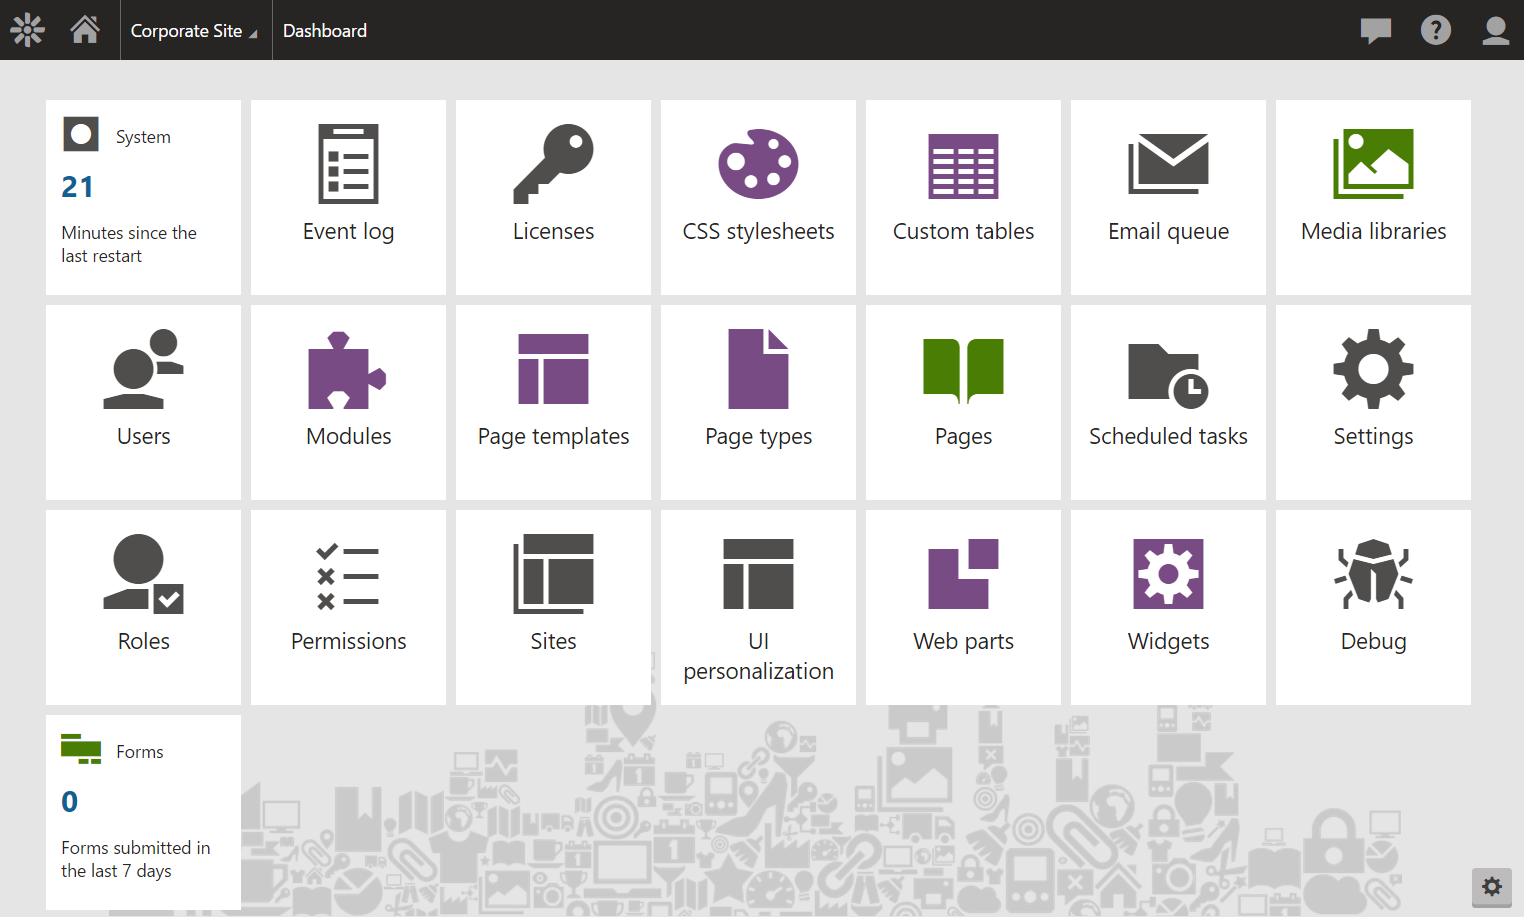
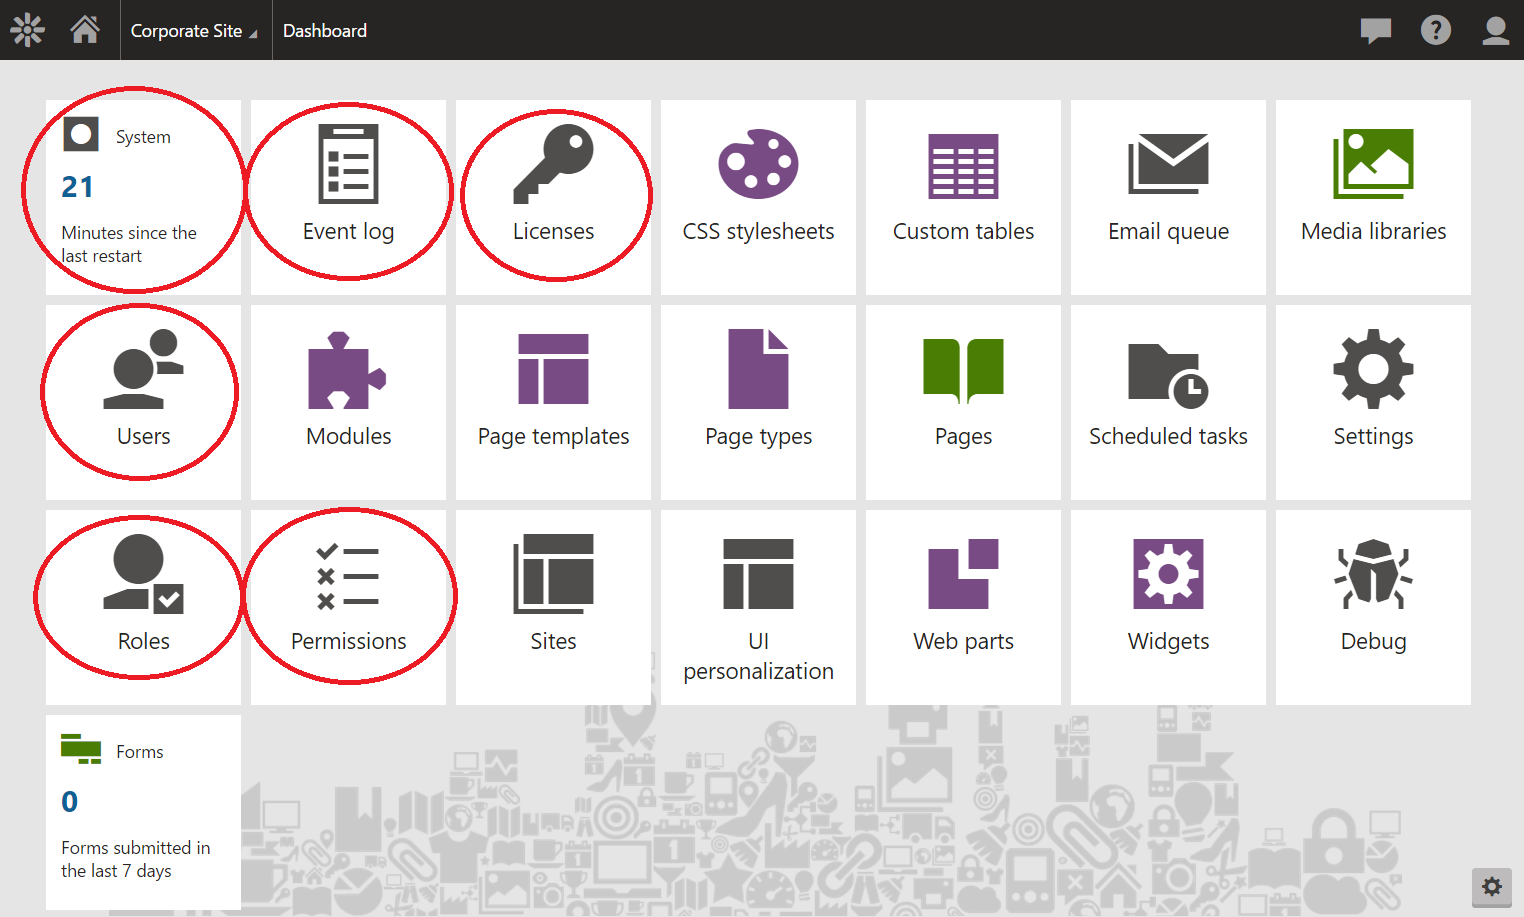
Images edited, analysis updated

diff --git a/chapters/analysis.tex b/chapters/analysis.tex
@@ -33,19 +33,21 @@ Example code sample
 This text references image \ref{ExampleImage1}
 
 \section{Kentico CMS} \label{analysisKenticoCMS}
-Kentico CMS is a content management system (CMS) which allows clients to create and manage their web-sites using a single user interface (UI) which is made of tiles, a layout and an edit button. Each tile has its own functionality. The client can rearrange them either by simply dragging them or by pushing the edit button. Pushing the button leads to the tiles having an \textit{X} in the upper-right corner for removing the tile. If place on the dashboard is available, a free rectangle with a plus enables the client to add a new tile from the menu. The functionality in the menu is divided into six categories: Content Management, On-line Marketing, E-Commerce, Social \& Community, Development and Configuration. The Content Management sees to the contents of the client's site such as pages, tables, polls, etc. On-line Marketing enables the client to handle marketing elements. Visitor's behaviour and reactions are taken into consideration. Email marketing, MVT Tests, Personas and other. The category E-commerce offers actions which lead to motivating the visitor's behaviour to resemble the client's wished one, managing products and to track sales. These action are for example Buy X get Y discounts, Products and Store reports. The next category is called Social \& Community and makes it possible for the client to maintain the community around the site and its communication. Some of these tiles are for instance Avatars, Chat, Events. The Development section's task is to empower the client to administer sources of functionality and programmable elements. This section consists of tiles such as CSS stylesheets, Email templates, Web Part Containers, etc. The last and in this thesis most important category is the Configuration category.  
+Kentico CMS is a content management system (CMS) which allows clients to create and manage their web-sites using a single user interface (UI) which is made of tiles, a layout and an edit button. Each tile has its own functionality. The client can rearrange them either by simply dragging them or by pressing the edit button. pressing the button leads to the tiles having an \textit{X} in the upper-right corner for removing the tile. If place on the dashboard is available, a free rectangle with a plus enables the client to add a new tile from the menu. The functionality in the menu is divided into six categories: Content Management, On-line Marketing, E-Commerce, Social \& Community, Development and Configuration. The Content Management sees to the contents of the client's site such as pages, tables, polls, etc. On-line Marketing enables the client to handle marketing elements. Visitor's behaviour and reactions are taken into consideration. Email marketing, MVT Tests, Personas and other. The category E-commerce offers actions which lead to motivating the visitor's behaviour to resemble the client's wished one, managing products and to track sales. These action are for example Buy X get Y discounts, Products and Store reports. The next category is called Social \& Community and makes it possible for the client to maintain the community around the site and its communication. Some of these tiles are for instance Avatars, Chat, Events. The Development section's task is to empower the client to administer sources of functionality and programmable elements. This section consists of tiles such as CSS stylesheets, Email templates, Web Part Containers, etc. The last, in this thesis most important category, is the Configuration category. This category mostly oversees the overall configuration of the of the Kentico server. It contains the key requirements of KenticoApp. One of those requirements is the Eventlog. It offers a dropdown list of available sites, a list of events, a filter to view specific ones and a button to clear the log. The 
 \begin{figure}[ht!]
   \centering
   \includegraphics[width=\textwidth]{Images/Kentico9.png}
-  \caption{Kentico 9.0 UI}
-  \label{kentico9.0UI}
+  \caption{Kentico 9.0 UI. The functionality of the tiles in the red circle is implemented in the KenticoApp. This image was
+taken via print screen from the administration interface of the Kentico 9.0 product and modified for illustrational purposes.}
+  \label{kentico9UI}
 \end{figure} 
 
 \begin{figure}[ht!]
   \centering
-  \includegraphics[width=\textwidth]{Images/Kentico9EditBtnPushed.png}
-  \caption{Kentico 9.0 UI After Pushin the Edit Button}
-  \label{kentico9.0UI}
+  \includegraphics[width=\textwidth]{Images/Kentico9EditBtnPressed.png}
+  \caption{Kentico 9.0 UI after pressing the edit button. This image was
+taken via print screen from the administration interface of the Kentico 9.0 product and modified for illustrational purposes.}
+  \label{kentico9UIEditBtnPressed}
 \end{figure} 
 \section{Web Application Interface} \label{analysisWebAPI}
 \section{Hybrid Mobile application} \label{analysisHybridMobileApplication}
